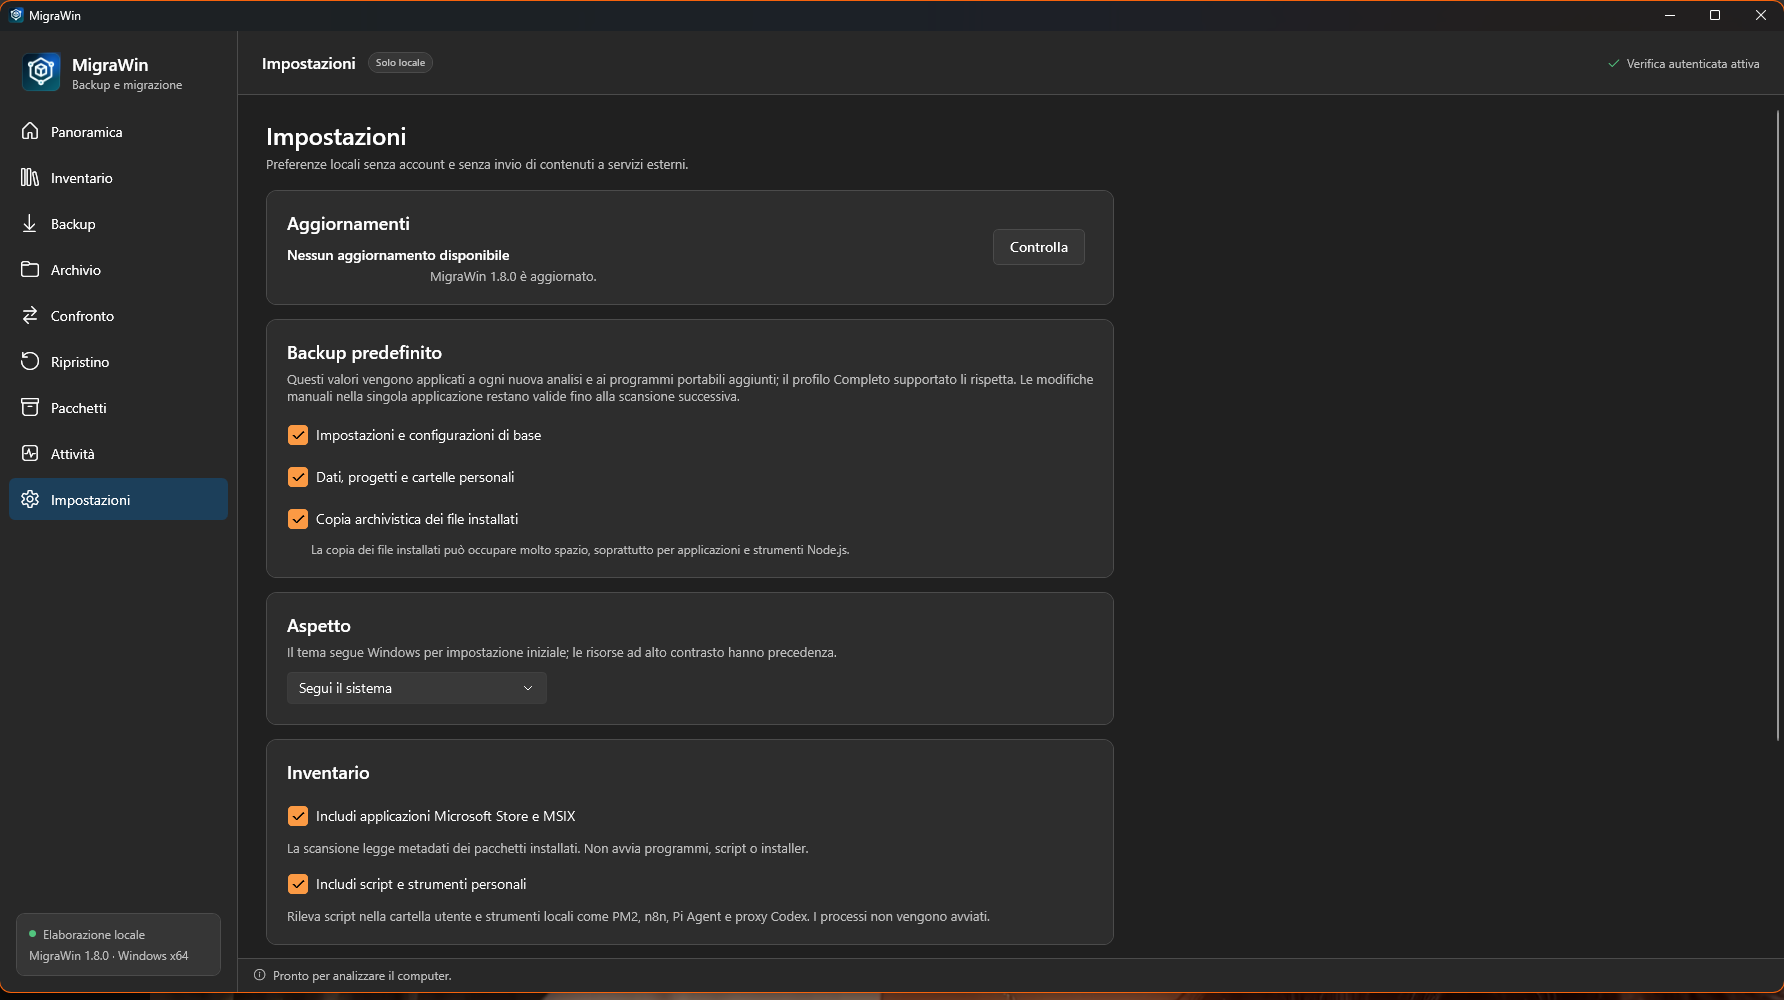
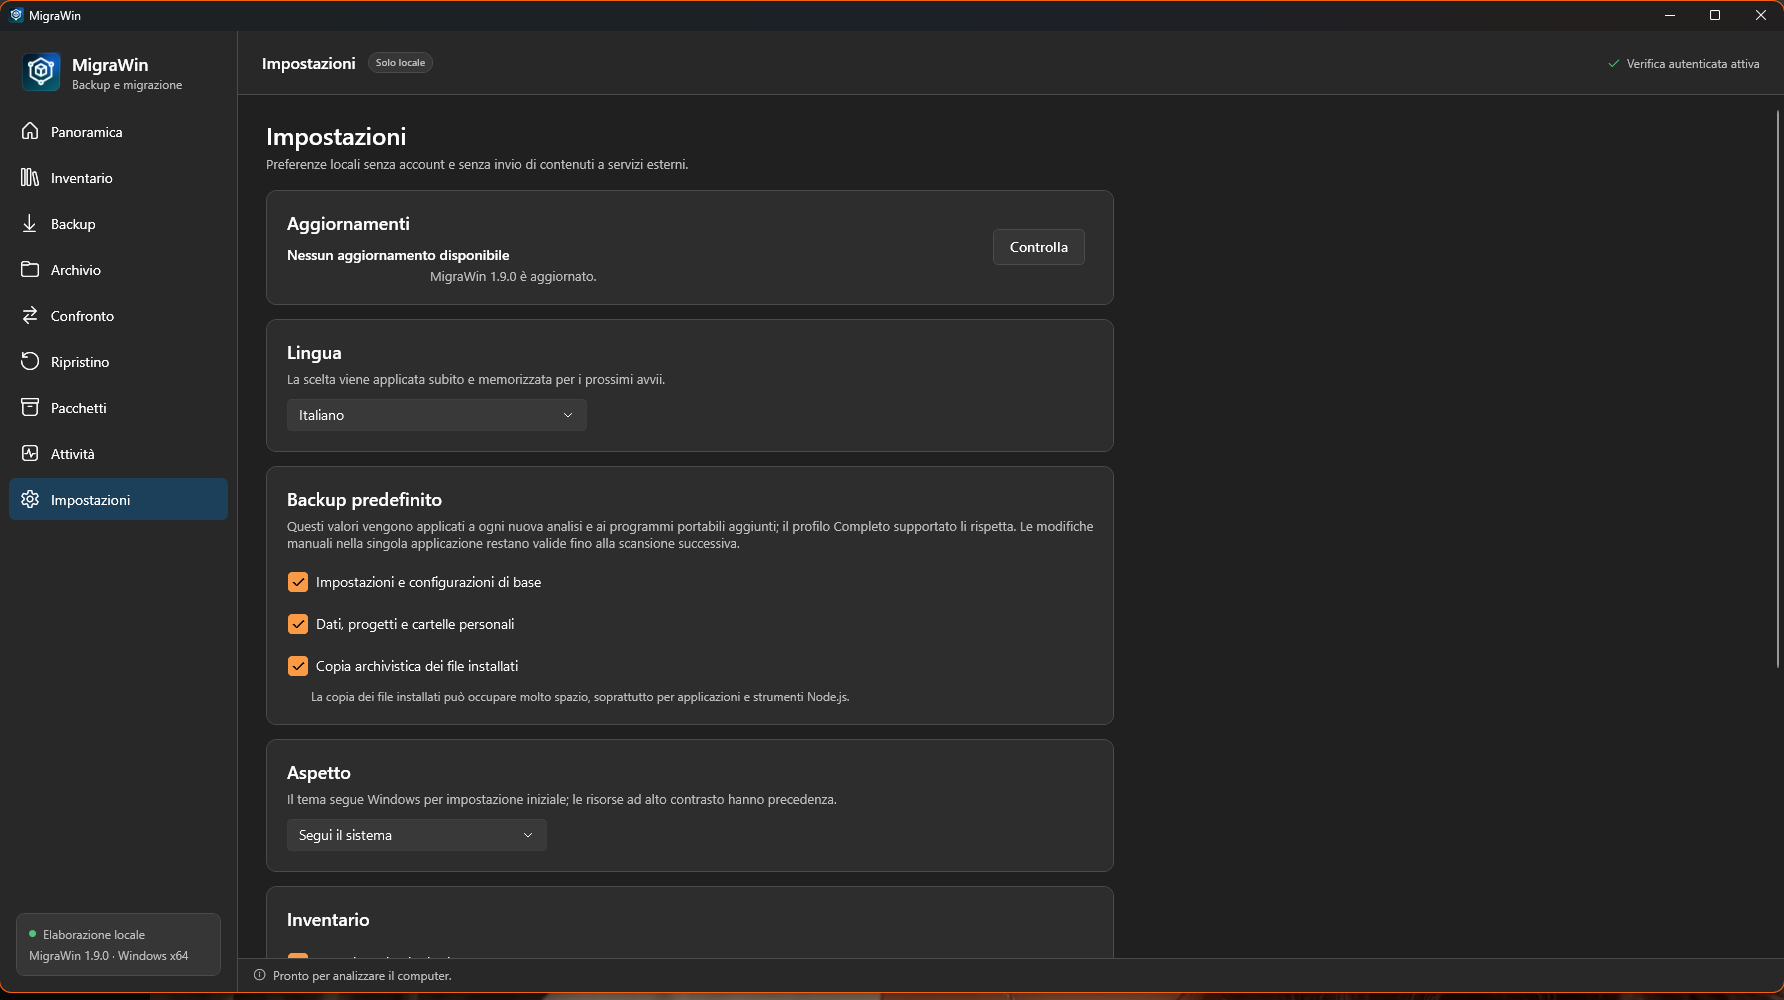
Record verified 1.9.0 multilingual release

Changed region(s): [[0.1541, 0.341, 0.6166, 0.713], [0.1541, 0.744, 0.5549, 0.93]]

diff --git a/PLAN.md b/PLAN.md
@@ -77,18 +77,18 @@ Ulteriori verifiche effettuate:
 - `dotnet list package --vulnerable --include-transitive`: nessun pacchetto vulnerabile;
 - build Debug e Release senza errori;
 - MSI installato con codice 0;
-- avvio del binario self-contained installato dalla release 1.8.0, finestra responsiva.
+- avvio del binario self-contained installato dalla release 1.9.0, finestra responsiva.
 - accessibilità UI: nessun controllo interattivo visibile privo di nome;
 - icone applicazione estratte dal PC e galleria promozionale ufficiale verificate visivamente in Visual Studio Code;
 - icona fornita e modernizzata verificata nell'API, nell'eseguibile e nella finestra installata;
 - repository pubblico: `https://github.com/renegadeFree/MigraWin`;
-- release pubblica: `https://github.com/renegadeFree/MigraWin/releases/tag/v1.8.0`;
-- GitHub Action della release `v1.8.0` completata con esito `success`;
-- Windows CI sul commit `89b572f` completata con esito `success`: build, test, installazione MSI, self-check, menu Start, collegamento Desktop e disinstallazione;
[1 lines of base64/hex data omitted]
+- release pubblica: `https://github.com/renegadeFree/MigraWin/releases/tag/v1.9.0`;
+- GitHub Action della release `v1.9.0` completata con esito `success`;
+- Windows CI sul commit `5aa67ce` completata con esito `success`: build, test, installazione MSI, self-check, menu Start, collegamento Desktop e disinstallazione;
[1 lines of base64/hex data omitted]
 - aggiornamento reale 1.4.0 → 1.4.1 rilevato e scaricato;
 - installazione passiva MSI verificata da `Downloads\MigraWinUpdates`;
-- release pubblica `v1.8.0` installata con codice 0 e avviata correttamente;
+- release pubblica `v1.9.0` installata con codice 0 e avviata correttamente;
 - collegamento Desktop verificato prima dell'installazione, dopo l'installazione e dopo la disinstallazione;
 - scansione reale con applicazioni e strumenti, inclusi script personali e configurazioni locali;
 - strumenti verificati nell'inventario: Enter for rename, PM2, n8n, Pi Agent e Proxy DeepSeek per Codex;
@@ -97,6 +97,8 @@ Ulteriori verifiche effettuate:
 - assenza del processo n8n nel dump PM2 corrente rilevata e mostrata esplicitamente.
 - predefiniti globali verificati nell'interfaccia con impostazioni, dati e copia dei file installati attivi;
 - persistenza di `settings.json` verificata dal test automatico.
+- cambio lingua verificato a runtime in inglese, cinese, giapponese, coreano, spagnolo, turco, russo, greco, francese e tedesco;
+- ritorno all'italiano e persistenza della scelta in `settings.json` verificati.
 - backup e ripristino Git eseguiti dall'interfaccia reale con contenuto SHA-256 identico prima e dopo.
 
 ## Prossimi incrementi

diff --git a/README.md b/README.md
@@ -107,7 +107,7 @@ Get-FileHash .\MigraWin-1.9.0-x64.msi -Algorithm SHA256
 Hash SHA-256 della release 1.9.0:
 
 ```text
-Il valore aggiornato è pubblicato anche in SHA256SUMS.txt nella release.
[1 lines of base64/hex data omitted]
 ```
 
 > **Nota sulla firma digitale:** la release corrente non ha una firma Authenticode di distribuzione. Windows può quindi mostrare un avviso SmartScreen. La pipeline di firma è pronta e viene attivata quando è disponibile un certificato valido.
